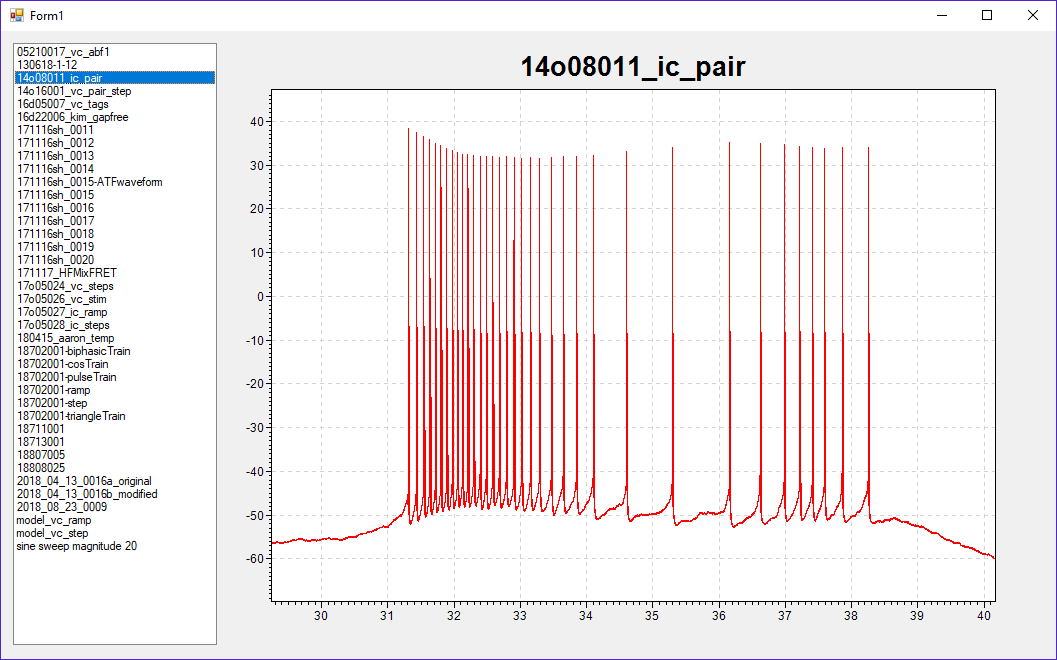
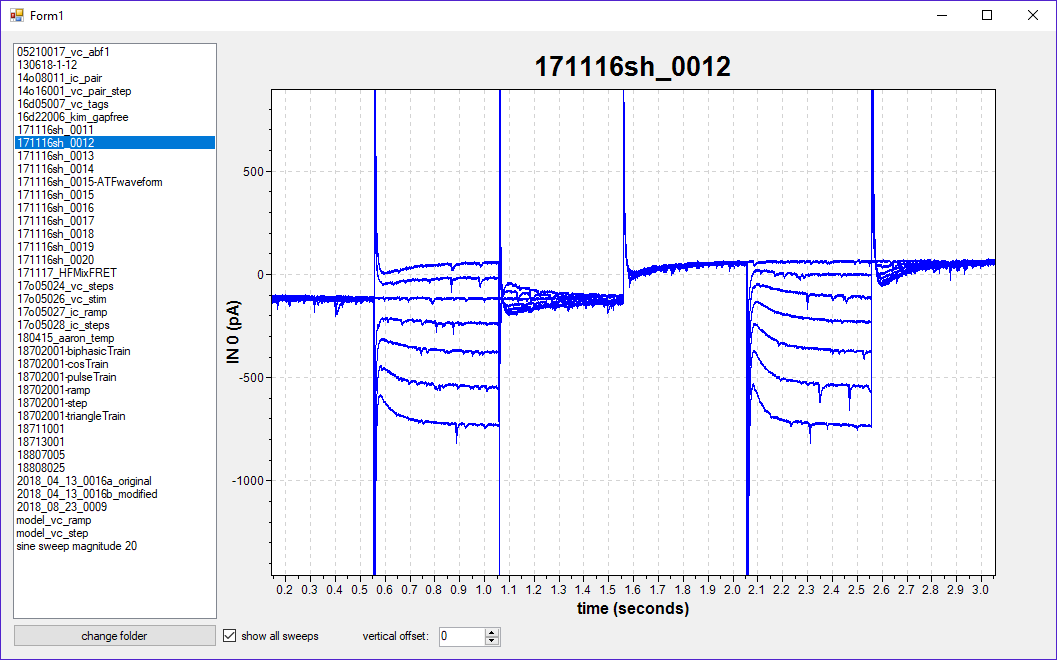
working demo

diff --git a/src/abfViewer/Form1.Designer.cs b/src/abfViewer/Form1.Designer.cs
@@ -30,6 +30,11 @@
         {
             this.listBox1 = new System.Windows.Forms.ListBox();
             this.scottPlotUC1 = new ScottPlot.ScottPlotUC();
+            this.cbAllSweeps = new System.Windows.Forms.CheckBox();
+            this.nudVertOffset = new System.Windows.Forms.NumericUpDown();
+            this.label1 = new System.Windows.Forms.Label();
+            this.button1 = new System.Windows.Forms.Button();
+            ((System.ComponentModel.ISupportInitialize)(this.nudVertOffset)).BeginInit();
             this.SuspendLayout();
             // 
             // listBox1
@@ -37,7 +42,7 @@
             this.listBox1.FormattingEnabled = true;
             this.listBox1.Location = new System.Drawing.Point(12, 12);
             this.listBox1.Name = "listBox1";
-            this.listBox1.Size = new System.Drawing.Size(204, 602);
+            this.listBox1.Size = new System.Drawing.Size(204, 576);
             this.listBox1.TabIndex = 0;
             this.listBox1.SelectedIndexChanged += new System.EventHandler(this.listBox1_SelectedIndexChanged);
             // 
@@ -46,20 +51,74 @@
             this.scottPlotUC1.Location = new System.Drawing.Point(221, 12);
             this.scottPlotUC1.Margin = new System.Windows.Forms.Padding(2, 2, 2, 2);
             this.scottPlotUC1.Name = "scottPlotUC1";
-            this.scottPlotUC1.Size = new System.Drawing.Size(823, 605);
+            this.scottPlotUC1.Size = new System.Drawing.Size(823, 579);
             this.scottPlotUC1.TabIndex = 1;
+            // 
+            // cbAllSweeps
+            // 
+            this.cbAllSweeps.AutoSize = true;
+            this.cbAllSweeps.Location = new System.Drawing.Point(222, 597);
+            this.cbAllSweeps.Name = "cbAllSweeps";
+            this.cbAllSweeps.Size = new System.Drawing.Size(103, 17);
+            this.cbAllSweeps.TabIndex = 2;
+            this.cbAllSweeps.Text = "show all sweeps";
+            this.cbAllSweeps.UseVisualStyleBackColor = true;
+            this.cbAllSweeps.CheckedChanged += new System.EventHandler(this.cbAllSweeps_CheckedChanged);
+            // 
+            // nudVertOffset
+            // 
+            this.nudVertOffset.Increment = new decimal(new int[] {
+            20,
+            0,
+            0,
+            0});
+            this.nudVertOffset.Location = new System.Drawing.Point(438, 596);
+            this.nudVertOffset.Maximum = new decimal(new int[] {
+            1000,
+            0,
+            0,
+            0});
+            this.nudVertOffset.Name = "nudVertOffset";
+            this.nudVertOffset.Size = new System.Drawing.Size(62, 20);
+            this.nudVertOffset.TabIndex = 3;
+            this.nudVertOffset.ValueChanged += new System.EventHandler(this.nudVertOffset_ValueChanged);
+            // 
+            // label1
+            // 
+            this.label1.AutoSize = true;
+            this.label1.Location = new System.Drawing.Point(359, 598);
+            this.label1.Name = "label1";
+            this.label1.Size = new System.Drawing.Size(73, 13);
+            this.label1.TabIndex = 4;
+            this.label1.Text = "vertical offset:";
+            // 
+            // button1
+            // 
+            this.button1.Location = new System.Drawing.Point(12, 593);
+            this.button1.Name = "button1";
+            this.button1.Size = new System.Drawing.Size(204, 23);
+            this.button1.TabIndex = 5;
+            this.button1.Text = "change folder";
+            this.button1.UseVisualStyleBackColor = true;
+            this.button1.Click += new System.EventHandler(this.button1_Click);
             // 
             // Form1
             // 
             this.AutoScaleDimensions = new System.Drawing.SizeF(6F, 13F);
             this.AutoScaleMode = System.Windows.Forms.AutoScaleMode.Font;
             this.ClientSize = new System.Drawing.Size(1055, 628);
+            this.Controls.Add(this.button1);
+            this.Controls.Add(this.label1);
+            this.Controls.Add(this.nudVertOffset);
+            this.Controls.Add(this.cbAllSweeps);
             this.Controls.Add(this.scottPlotUC1);
             this.Controls.Add(this.listBox1);
             this.Name = "Form1";
             this.Text = "Form1";
             this.Load += new System.EventHandler(this.Form1_Load);
+            ((System.ComponentModel.ISupportInitialize)(this.nudVertOffset)).EndInit();
             this.ResumeLayout(false);
+            this.PerformLayout();
 
         }
 
@@ -67,6 +126,10 @@
 
         private System.Windows.Forms.ListBox listBox1;
         private ScottPlot.ScottPlotUC scottPlotUC1;
+        private System.Windows.Forms.CheckBox cbAllSweeps;
+        private System.Windows.Forms.NumericUpDown nudVertOffset;
+        private System.Windows.Forms.Label label1;
+        private System.Windows.Forms.Button button1;
     }
 }
 

diff --git a/src/abfViewer/Form1.cs b/src/abfViewer/Form1.cs
@@ -21,7 +21,7 @@ namespace abfViewer
 
         private void Form1_Load(object sender, EventArgs e)
         {
-            ScanAbfFolder(@"C:\Users\scott\Documents\GitHub\pyABF\data\abfs");
+            //ScanAbfFolder(@"C:\Users\scott\Documents\GitHub\pyABF\data\abfs");
         }
 
         private class AbfPath
@@ -31,7 +31,7 @@ namespace abfViewer
             public string abfID { get; set; }
         }
 
-        private List<AbfPath> abfPaths = new List<AbfPath>();
+        private BindingList<AbfPath> abfPaths = new BindingList<AbfPath>();
 
         public void ScanAbfFolder(string abfFolder)
         {
@@ -50,14 +50,53 @@ namespace abfViewer
             listBox1.ValueMember = "abfPath";
             listBox1.DataSource = abfPaths;
         }
-        
+
+        ABF abf;
         private void listBox1_SelectedIndexChanged(object sender, EventArgs e)
         {
-            ABF abf = new ABF(listBox1.SelectedValue.ToString());
+            abf = new ABF(listBox1.SelectedValue.ToString());
+            Replot();
+        }
+
+        public void Replot()
+        {
             scottPlotUC1.Clear();
             scottPlotUC1.fig.labelTitle = abf.abfID;
-            scottPlotUC1.PlotSignal(abf.sweepY, abf.dataRate);
+            scottPlotUC1.fig.labelX = "time (seconds)";
+            scottPlotUC1.fig.labelY = $"{abf.adcNames[0]} ({abf.adcUnits[0]})";
+            if (cbAllSweeps.Checked)
+            {
+                for (int sweep=0; sweep<abf.sweepCount; sweep++)
+                {
+                    abf.SetSweep(sweep);
+                    scottPlotUC1.PlotSignal(abf.sweepY, abf.dataRate, Color.Blue, 0, (double)nudVertOffset.Value*sweep);
+                    Console.WriteLine(abf.sweepY[0]);
+                }                
+            } else
+            {
+                abf.SetSweep(0);
+                scottPlotUC1.PlotSignal(abf.sweepY, abf.dataRate);
+            }            
             scottPlotUC1.AxisAuto();
+        }
+
+        private void cbAllSweeps_CheckedChanged(object sender, EventArgs e)
+        {
+            Replot();
+        }
+
+        private void nudVertOffset_ValueChanged(object sender, EventArgs e)
+        {
+            Replot();
+        }
+
+        private void button1_Click(object sender, EventArgs e)
+        {
+            var diag = new FolderBrowserDialog();
+            if (diag.ShowDialog() == DialogResult.OK)
+            {
+                ScanAbfFolder(diag.SelectedPath);
+            }
         }
     }
 }

diff --git a/src/vsABF/ABF.cs b/src/vsABF/ABF.cs
@@ -220,9 +220,7 @@ namespace vsABF
             data = new double[channelCount, pointsPerChannel];
             FileStream fs = File.OpenRead(abfFilePath);
             BinaryReader br = new BinaryReader(fs);
-
             br.BaseStream.Seek(dataByteStart, SeekOrigin.Begin);
-
             for (int i=0; i<pointsPerChannel; i++)
             {
                 for (int j=0; j<channelCount; j++)
@@ -245,9 +243,9 @@ namespace vsABF
             System.Diagnostics.Stopwatch stopwatch = System.Diagnostics.Stopwatch.StartNew();
             sweepY = new double[sweepPointCount];
             int sweepFirstPoint = sweepPointCount * sweepNumber;
-            for (int i=sweepFirstPoint; i<sweepPointCount; i++)
+            for (int i=0; i< sweepPointCount; i++)
             {
-                sweepY[i] = data[channelNumber, i];
+                sweepY[i] = data[channelNumber, i+ sweepFirstPoint];
             }
             if (absoluteTime)
             {
